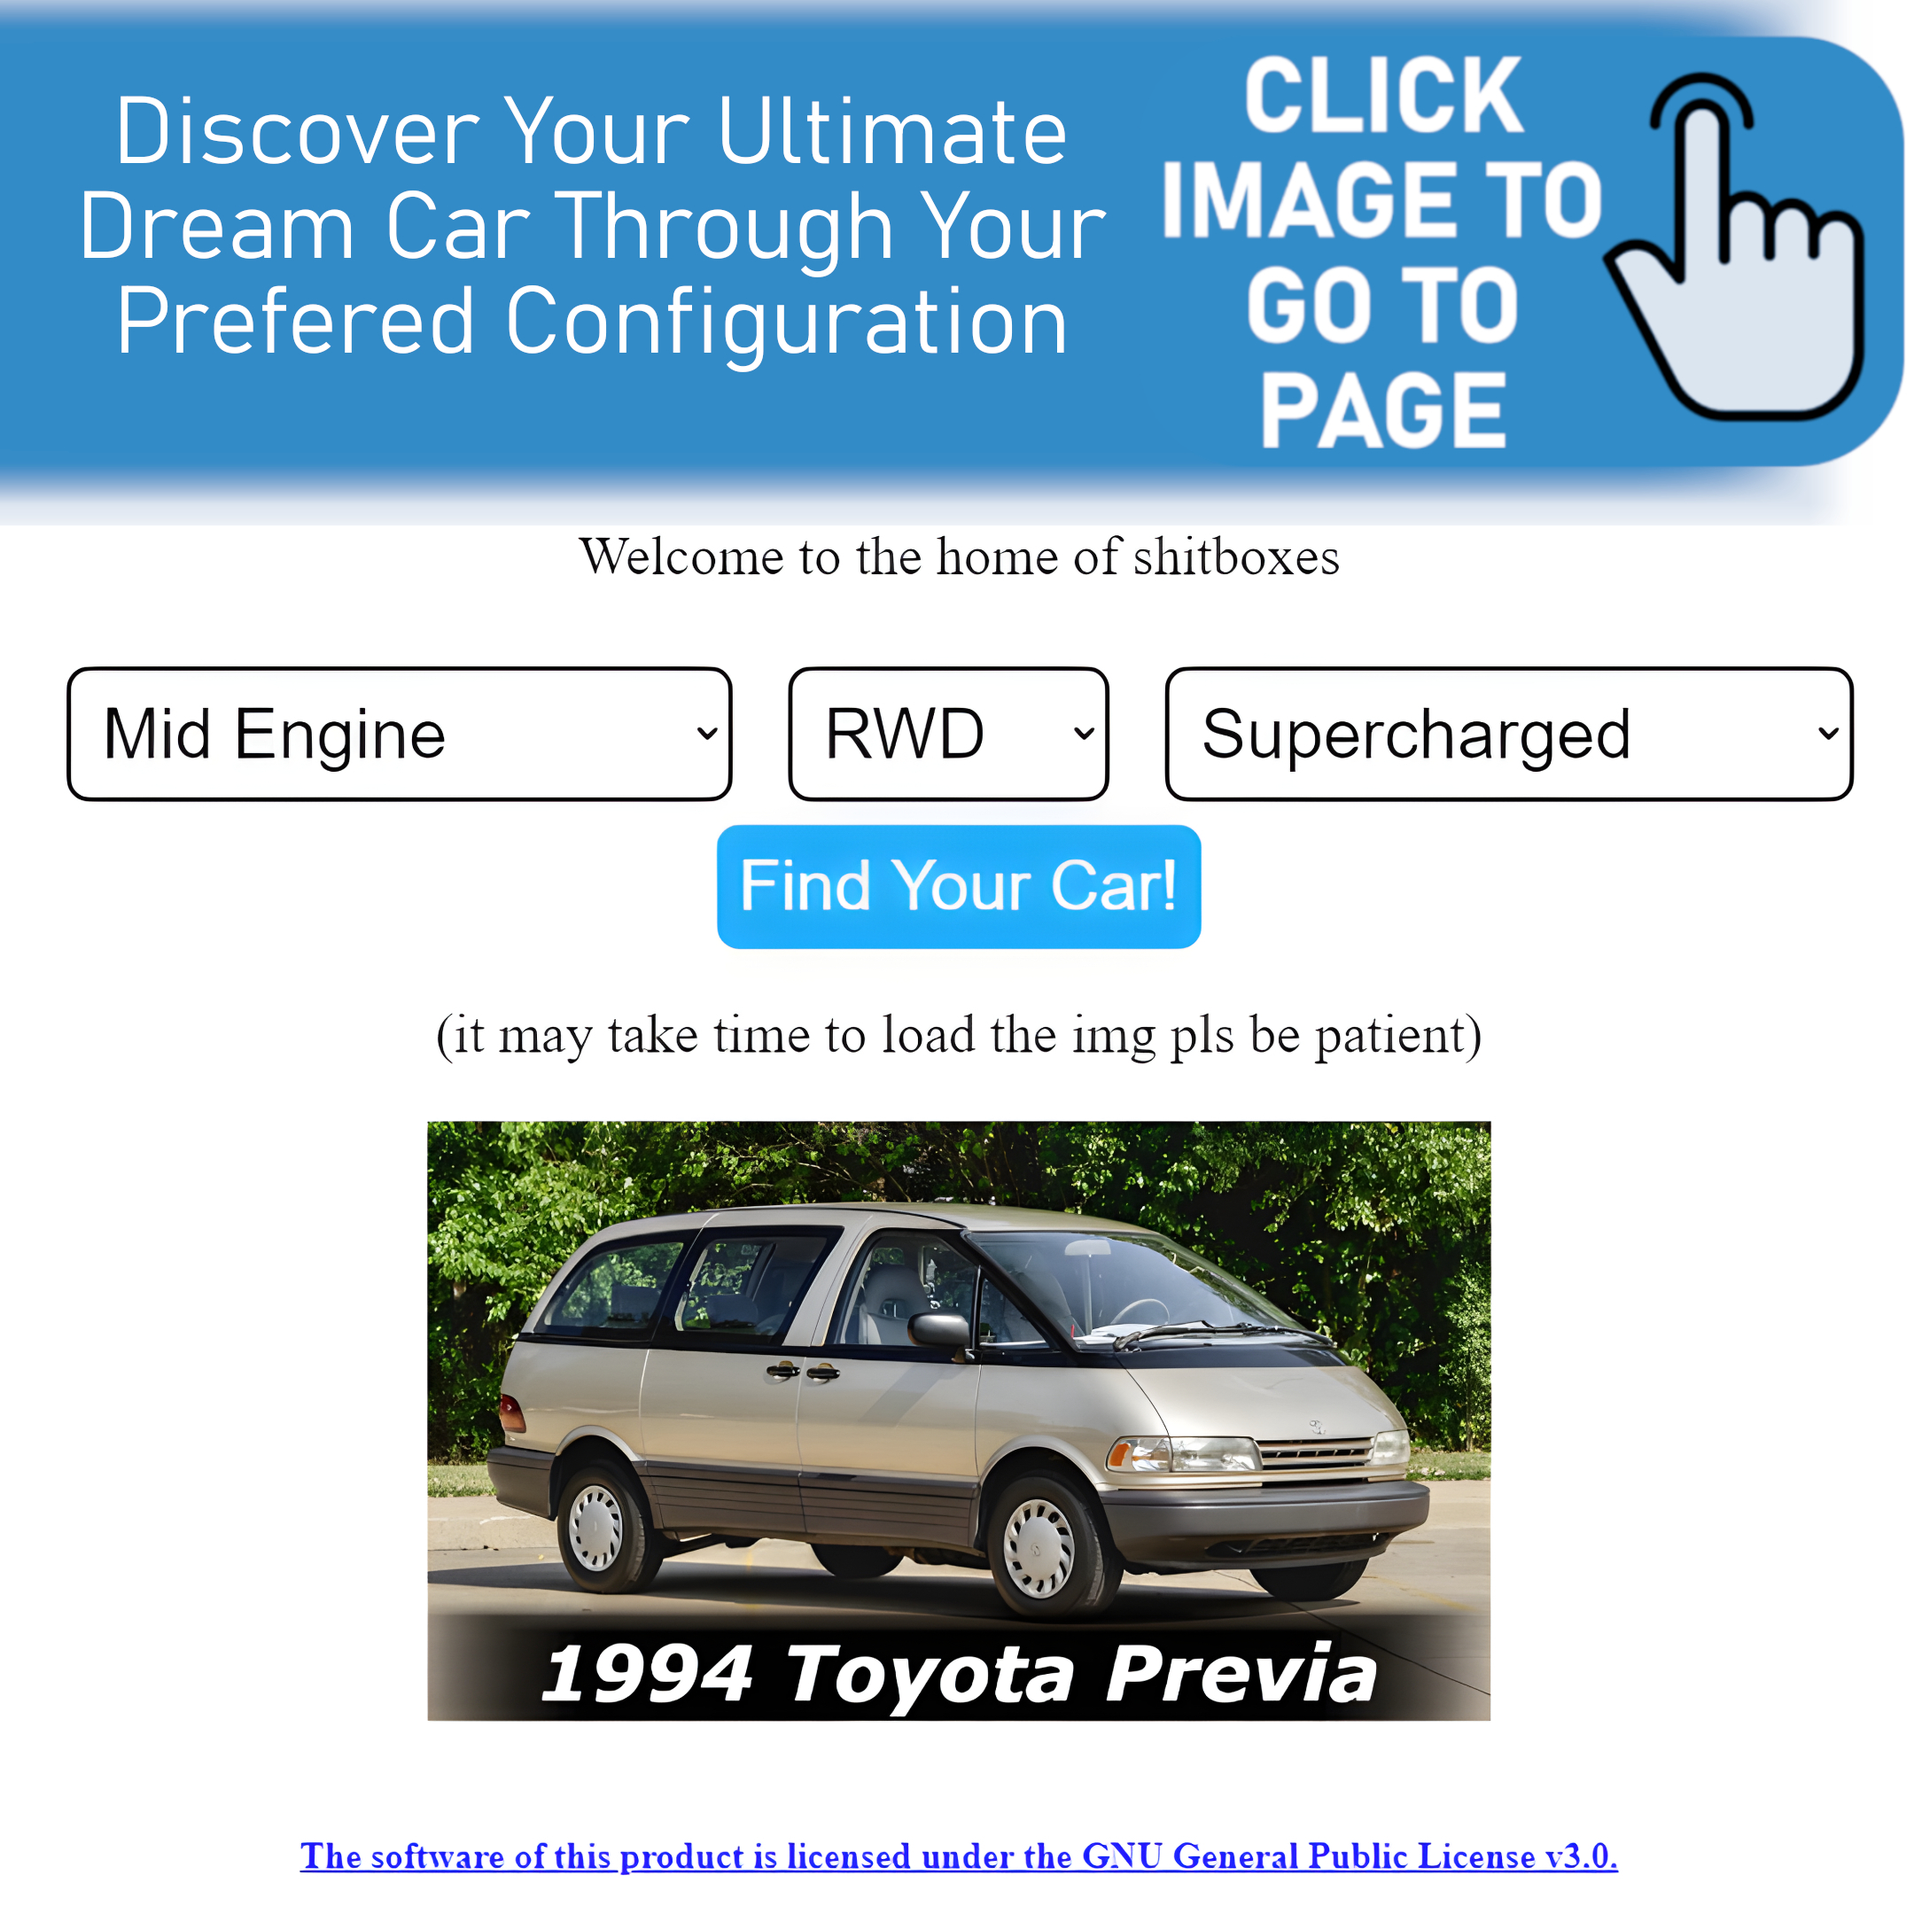
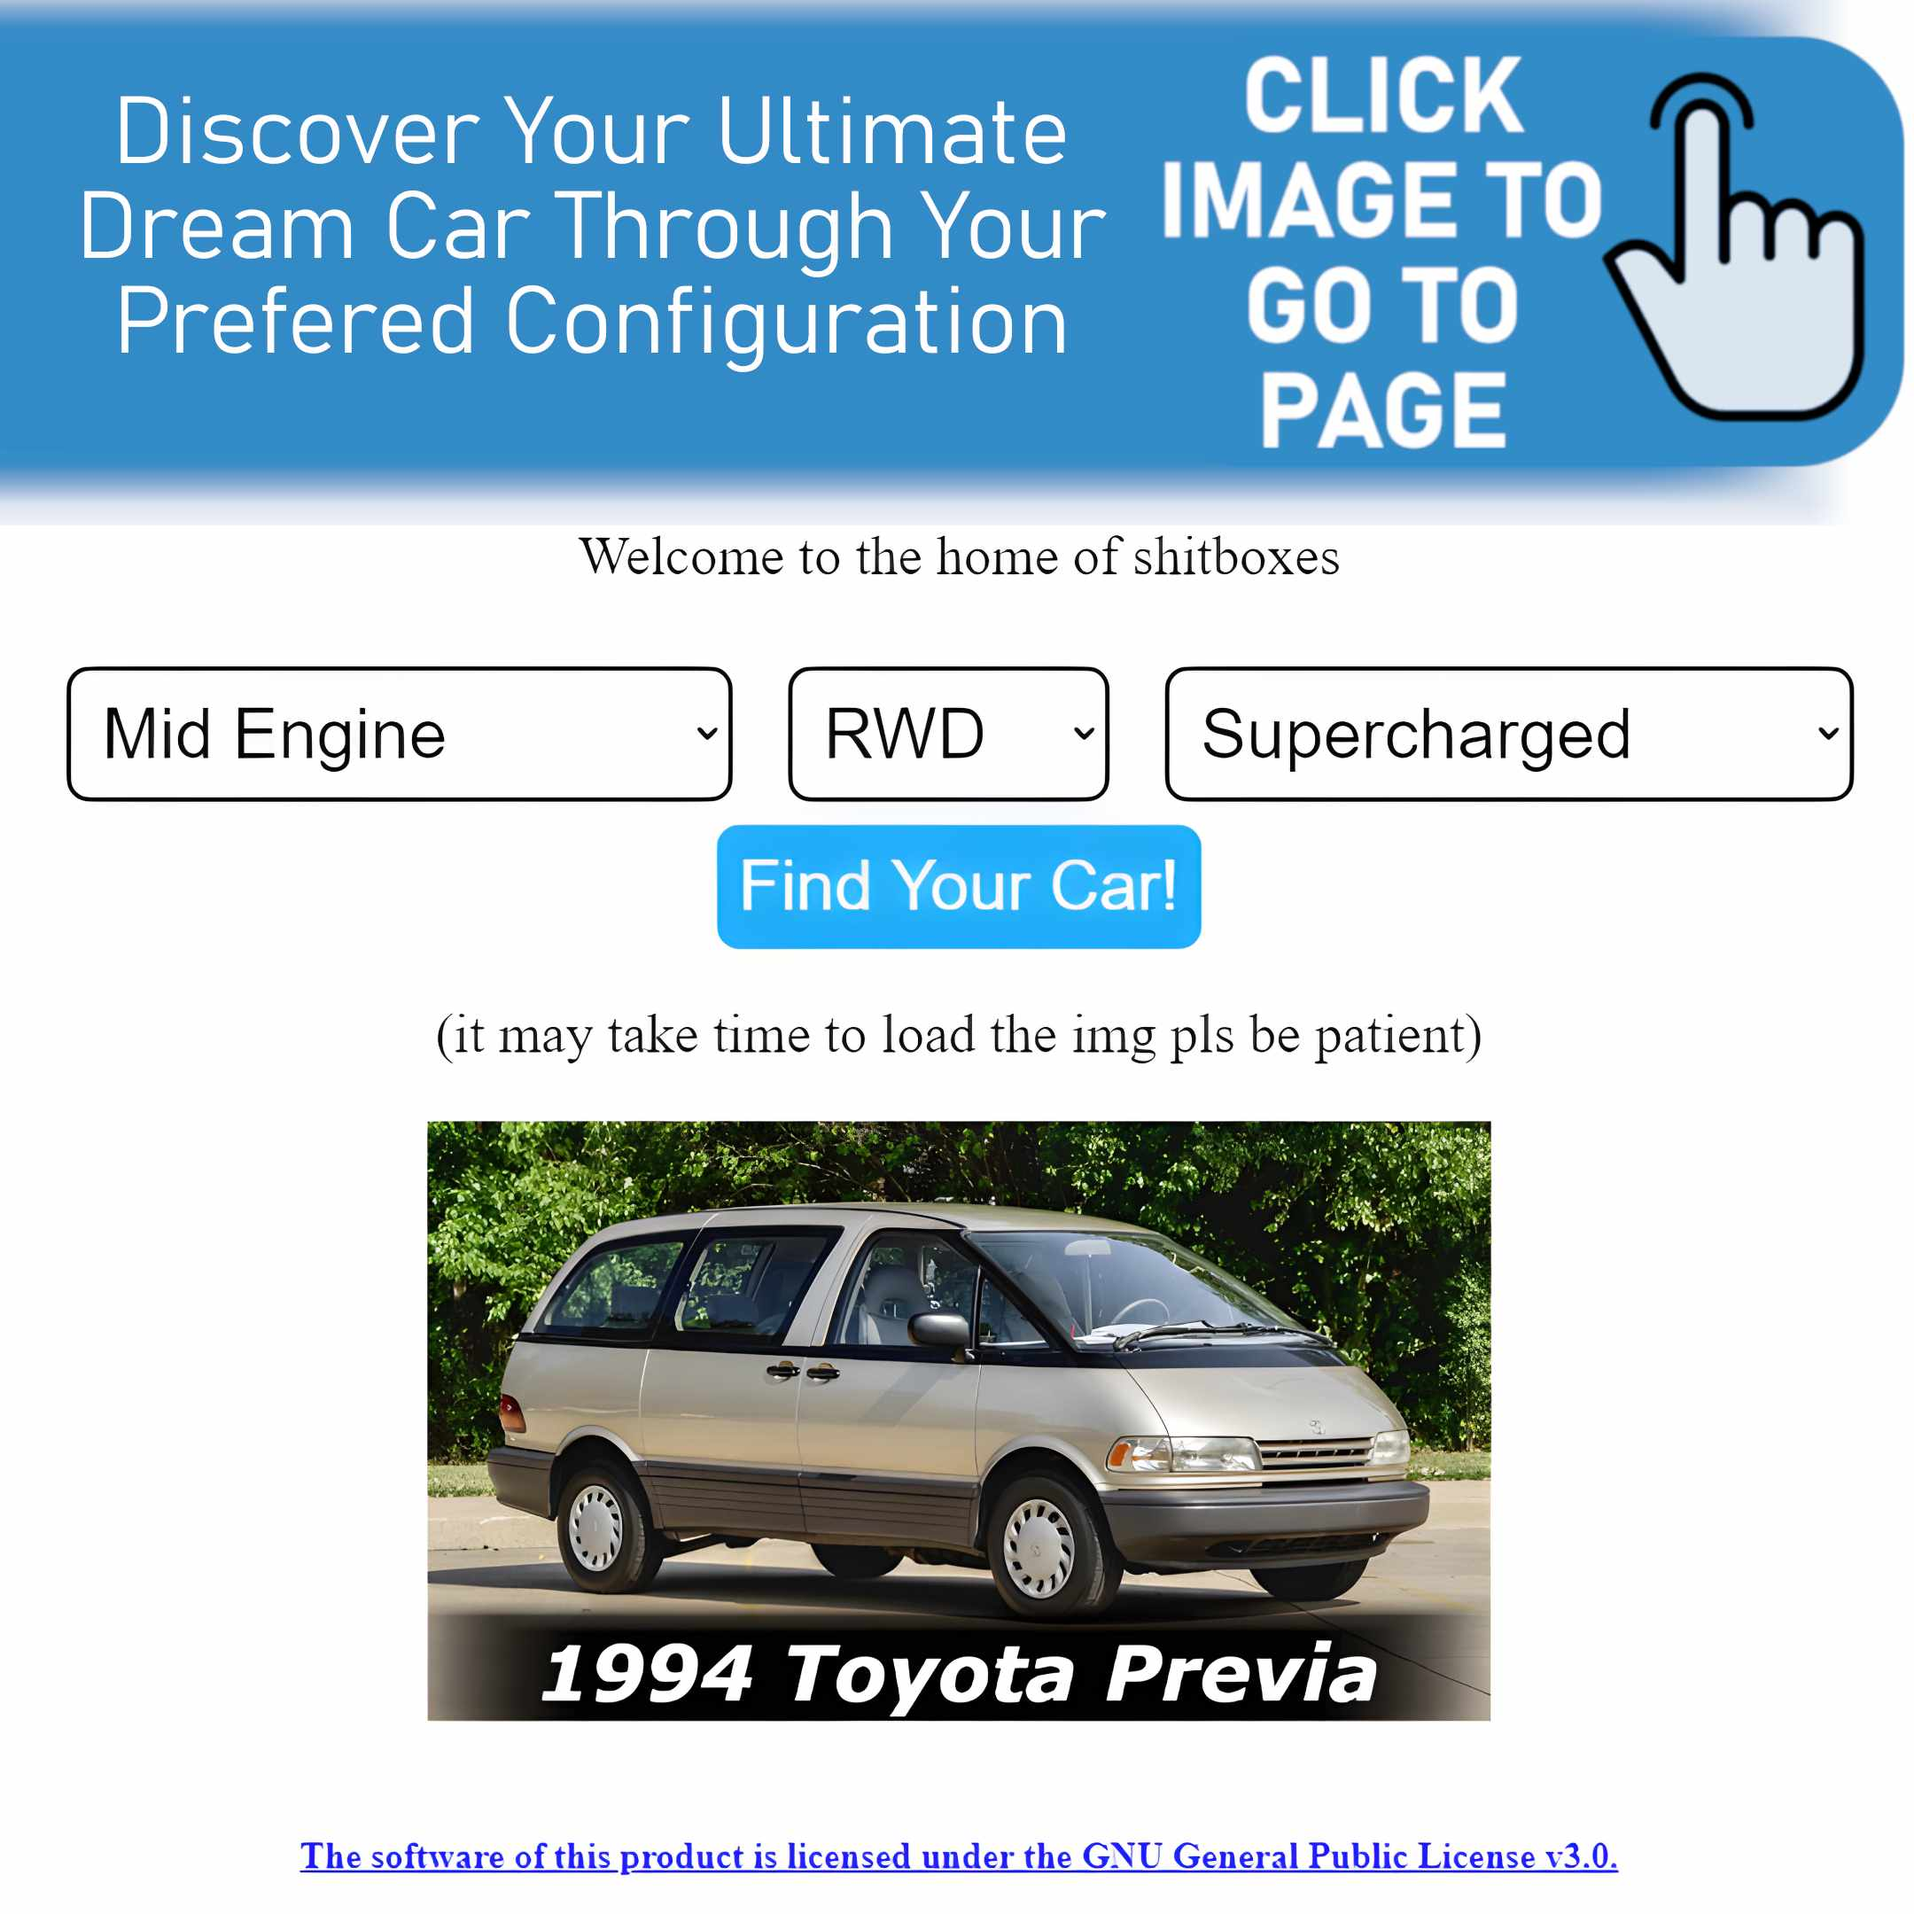
imgs resize

diff --git a/index.html b/index.html
@@ -2,6 +2,9 @@
 <html lang=”en”>
   <head>
     <title>DreamCarFinder</title>
+    <meta charset="UTF-8">
+    <meta name="description" content="Explore new and unusual dream cars in a completely unexpected way! You can find by choosing your fantasy configuration or your favourite cat AND MORE!">
+    <meta name="viewport" content="width=device-width">
     <style>
       
       @media (max-width: 768px) {
@@ -41,7 +44,7 @@
 
       .selector {
         text-align: center;
-        width: 50%; /* MENU IMGs SIZES */
+        width: 70%; /* MENU IMGs SIZES */
         padding: 5px;
         display: flex; /* Display images in a row */
         justify-content: space-between; /* Add space between images */

diff --git a/cat2car.html b/cat2car.html
@@ -4,7 +4,8 @@
   <head>
     <title>DreamCarFinder</title>
     <meta charset="UTF-8">
-    <meta name="description" content="Page of the Dream Car Finder website, to discover your favorite cat is which car!">
+    <meta name="description" content="Dream Car Finder, discover your favorite cat is which car!">
+    <meta name="viewport" content="width=device-width">
     <script type="text/javascript" src="cat2car/catpage.js" defer=""></script>
     <link rel="stylesheet" href="cat2car/catpage.css" />
   </head>

diff --git a/config.html b/config.html
@@ -2,6 +2,9 @@
 <html lang=”en”>
   <head>
     <title>DreamCarFinder</title>
+    <meta charset="UTF-8">
+    <meta name="description" content="Discover your REAL dream car that you had no idea exists, through selecting your preferred configuration. Dream Car Finder">
+    <meta name="viewport" content="width=device-width">
     <script type="text/javascript" src="config/config.js" defer=""></script>
     <link rel="stylesheet" href="config/config.css" />
   </head>

diff --git a/fakead.html b/fakead.html
@@ -3,7 +3,8 @@
   <head>
     <title>shitBoxFinderAd</title>
     <meta charset="UTF-8">
-    <meta name="description" content="Find single shitboxes in your area">
+    <meta name="description" content="Find single shitboxes in your area! Find the single shitboxes need to be maintained!!">
+    <meta name="viewport" content="width=device-width">
     <style>
       body {background-image: url("site/bgfake.webp");}
 
